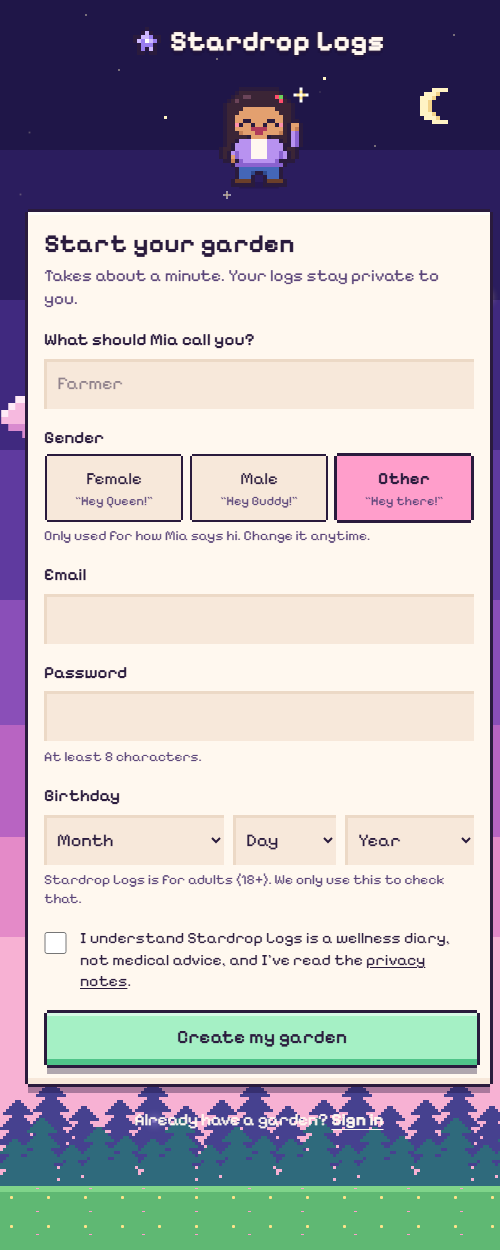
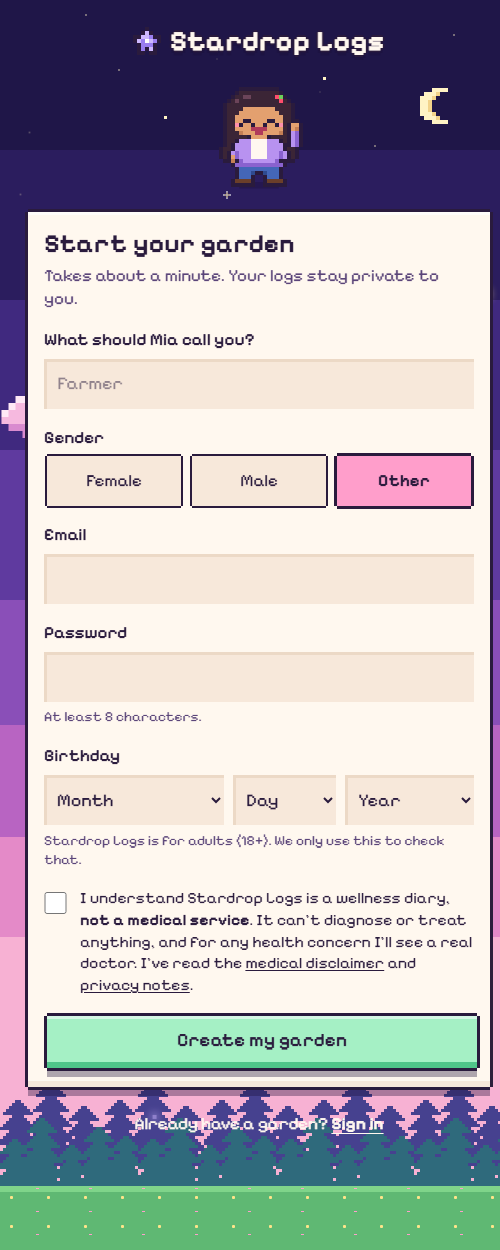
Keep the greeting detail out of sign-up; add Hi, name to Mia's hellos

Changed region(s): [[0.06, 0.4992, 0.99, 0.9048], [0.09, 0.3744, 0.96, 0.468], [0.6, 0.0624, 0.63, 0.0936]]

diff --git a/src/components/forms/GenderPicker.tsx b/src/components/forms/GenderPicker.tsx
@@ -1,7 +1,7 @@
 "use client";
 
-// Three chunky radio buttons. Each shows how Mia will say hello, so it's
-// clear the choice only changes the greeting.
+// Three chunky radio buttons. Only the label shows; what it changes inside
+// the app isn't spelled out here.
 import { useState } from "react";
 import { GENDER_OPTIONS, type Gender } from "@/lib/greeting";
 
@@ -24,7 +24,7 @@ export default function GenderPicker({ defaultValue = "other", errors }: Readonl
           return (
             <label
               key={g.value}
-              className="flex cursor-pointer flex-col items-center gap-0.5 px-1 py-2.5 text-center has-[:focus-visible]:outline-dashed has-[:focus-visible]:outline-3 has-[:focus-visible]:outline-butter"
+              className="flex min-h-[50px] cursor-pointer items-center justify-center px-1 py-2.5 text-center has-[:focus-visible]:outline-dashed has-[:focus-visible]:outline-3 has-[:focus-visible]:outline-butter"
               style={{ background: on ? "var(--color-pink)" : "var(--color-cream-2)", boxShadow: on ? SELECTED : OUTLINE }}
             >
               <input
@@ -36,12 +36,10 @@ export default function GenderPicker({ defaultValue = "other", errors }: Readonl
                 className="sr-only"
               />
               <span className={`text-[17px] ${on ? "font-bold" : ""}`}>{g.label}</span>
-              <span className="text-[13px] leading-tight text-plum-soft">“{g.hey}”</span>
             </label>
           );
         })}
       </div>
-      <span className="text-[14px] text-plum-soft">Only used for how Mia says hi. Change it anytime.</span>
       {errors?.length ? <span className="text-[15px] font-semibold text-pink-deep">{errors[0]}</span> : null}
     </fieldset>
   );

diff --git a/src/lib/dialogue.ts b/src/lib/dialogue.ts
@@ -6,7 +6,6 @@ import type { Garden } from "./farm";
 import { CHECK_IN_AFTER_DAYS } from "./suggestions";
 import type { PoopLog } from "./types";
 
-// Comes after "Hey Queen!" / "Hey Buddy!" / "Hey there!".
 const GREETINGS = {
   morning: ["Good morning, {name}!", "Rise and shine, {name}!"],
   afternoon: ["Good afternoon, {name}!", "Happy afternoon, {name}!"],
@@ -25,6 +24,17 @@ const TIPS = [
 ];
 
 const pick = <T,>(list: readonly T[], seed: number) => list[Math.abs(seed) % list.length];
+
+/**
+ * Every way Mia might open: the gendered hey (+ a time-of-day line), a plain
+ * "Hi, name!", or just the time-of-day line. One is picked per hour of the
+ * day so it varies without flickering between renders.
+ */
+export function hellos(name: string, gender: Gender, now: Date): string[] {
+  const seed = now.getDate() + now.getHours();
+  const timed = pick(GREETINGS[timeOfDay(now)], seed).replace("{name}", name);
+  return [`${heyFor(gender)} ${timed}`, `Hi ${name}!`, `${heyFor(gender)} Hi ${name}!`, timed];
+}
 
 /** The headline line: today's state first, then streak celebrations. */
 function statusLine(hello: string, garden: Garden, last: PoopLog | undefined): string {
@@ -53,7 +63,7 @@ export function dashboardLines(
   now = new Date(),
 ): string[] {
   const seed = now.getDate() + now.getHours();
-  const hello = `${heyFor(gender)} ${pick(GREETINGS[timeOfDay(now)], seed).replace("{name}", name)}`;
+  const hello = pick(hellos(name, gender, now), seed + now.getMonth());
   const last = logs[0];
   const lines = [statusLine(hello, garden, last)];
 

diff --git a/src/lib/greeting.test.ts b/src/lib/greeting.test.ts
@@ -1,6 +1,6 @@
 import { describe, expect, it } from "vitest";
 import { heyFor, isGender } from "./greeting";
-import { dashboardLines } from "./dialogue";
+import { dashboardLines, hellos } from "./dialogue";
 import { buildGarden } from "./farm";
 import { ProfileSchema, SignUpSchema } from "./validation";
 
@@ -14,10 +14,17 @@ describe("Mia's hello", () => {
     expect(heyFor(null)).toBe("Hey there!");
   });
 
-  it("opens the dashboard line", () => {
+  it("mixes gendered hellos, a plain Hi name, and time-of-day lines", () => {
+    const options = hellos("Sam", "female", NOW);
+    expect(options.some((h) => h.startsWith("Hey Queen!"))).toBe(true);
+    expect(options).toContain("Hi Sam!");
+    expect(hellos("Sam", "male", NOW).some((h) => h.startsWith("Hey Buddy!"))).toBe(true);
+    expect(options.every((h) => h.includes("Sam"))).toBe(true);
+  });
+
+  it("opens the dashboard line with one of them", () => {
     const lines = dashboardLines("Sam", "female", buildGarden([], [], NOW), [], NOW);
-    expect(lines[0].startsWith("Hey Queen! ")).toBe(true);
-    expect(lines[0]).toContain("Sam");
+    expect(hellos("Sam", "female", NOW).some((h) => lines[0].startsWith(h))).toBe(true);
   });
 
   it("only accepts the three values", () => {

diff --git a/src/app/privacy/page.tsx b/src/app/privacy/page.tsx
@@ -6,7 +6,7 @@ export const metadata = { title: "Privacy" };
 const POINTS = [
   {
     title: "What we store",
-    body: "Your email, a display name, your gender (only so Mia knows how to say hi), your birthday (only to check you're 18+), and the logs and quiet days you add.",
+    body: "Your email, a display name, your gender, your birthday (only to check you're 18+), and the logs and quiet days you add.",
   },
   {
     title: "Who can see it",
